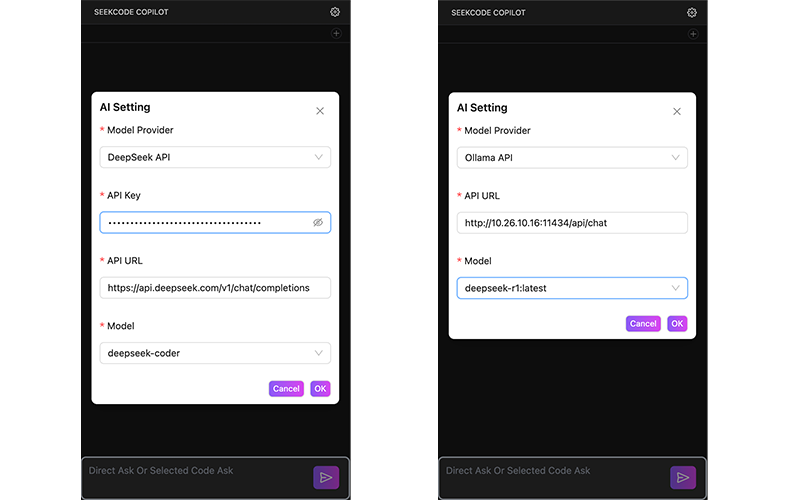
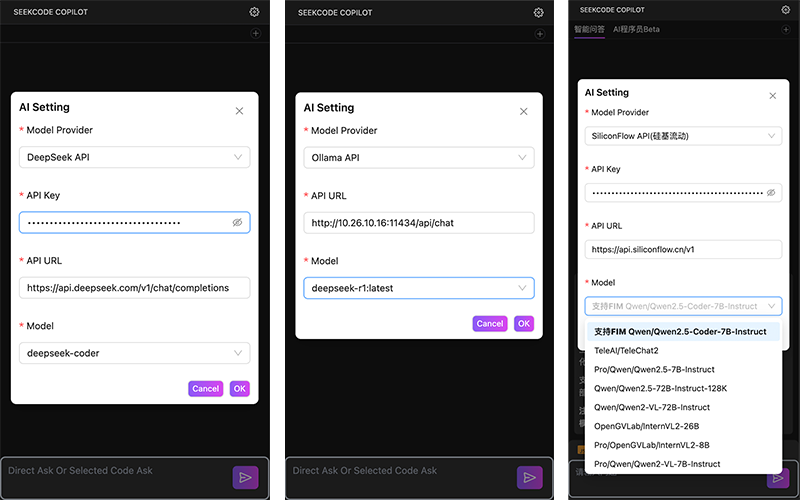
添加版本日志

diff --git a/README.md b/README.md
@@ -37,6 +37,7 @@
 - **代码解释**：清晰解释代码逻辑，帮助理解复杂代码。
 - **错误检测**：实时检测代码错误，提供修复建议。
 - **代码优化**：优化代码结构，提升性能与可读性。
+- **代码补全**：在编辑代码过程中，智能提示和补全。(仅限部分支持FIM的模型)
 
 ## 核心优势
 
@@ -50,6 +51,10 @@
 - 理解与优化现有代码
 - 提升代码编写效率
 - 学习与探索新技术
+
+## Change Log
+
+
 
 ## 联系我们
 

diff --git a/CHANGELOG.md b/CHANGELOG.md
@@ -1,0 +1,17 @@
+# Change Log
+
+All notable changes to the "SeekCode Copilot" extension will be documented in this file.
+
+#### 版本：0.3.2 日期：2025-03-14
+实现使用硅基流动api的代码补全功能
+
+#### 版本：0.3.1 日期：2025-03-13
+可接入硅基流动平台
+
+#### 版本：0.3.0 日期：2025-03-12
+新增AI程序员功能。
+
+#### 版本：0.2.9 日期：2025-02-28
+
+完成插件智能问答功能。  
+完成插件解释代码，优化代码，生成注释功能。
